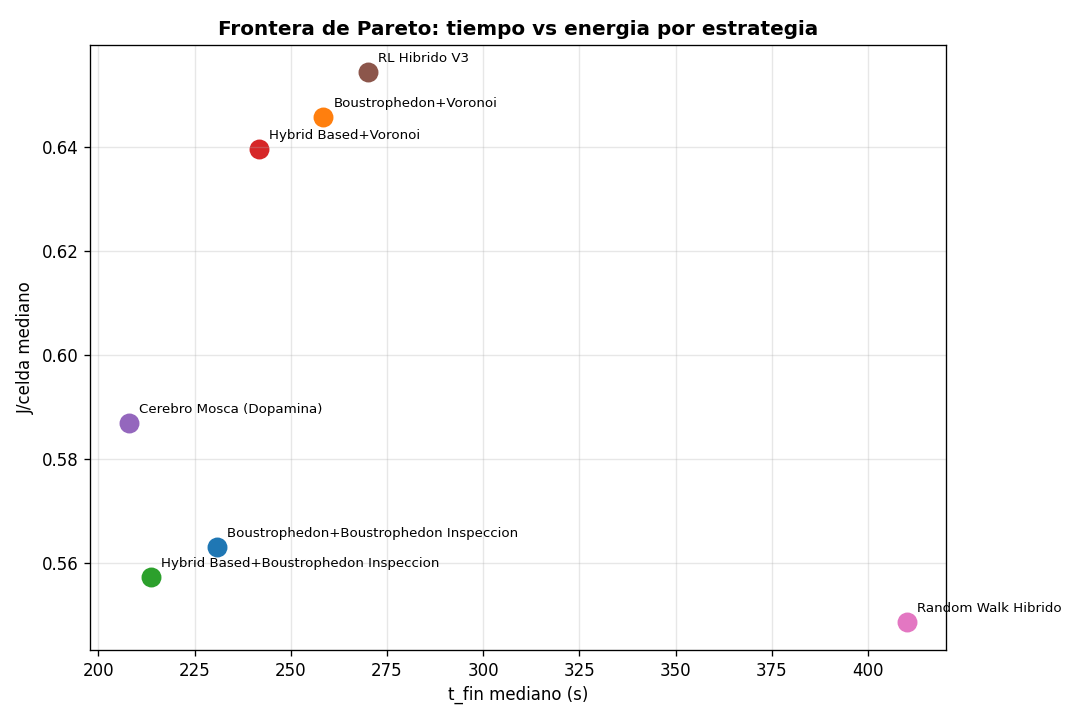
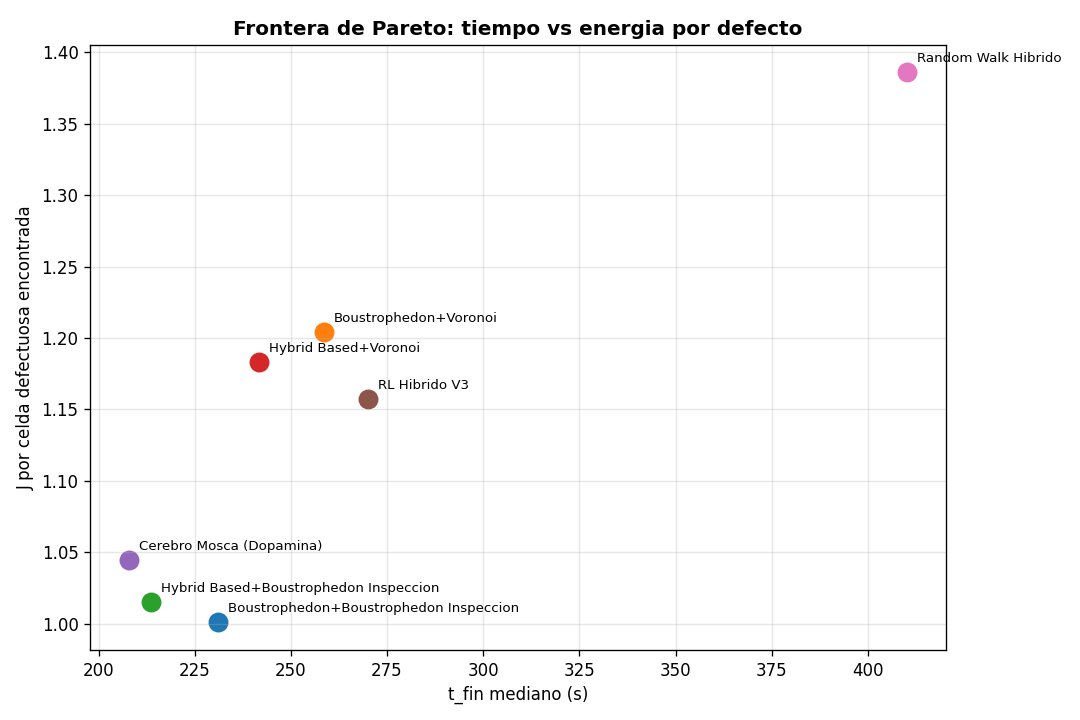
feat: pareto en J por celda defectuosa encontrada

diff --git a/graficar_generalista.py b/graficar_generalista.py
@@ -322,7 +322,8 @@ def main():
         L = libres_de_mapa(key[3])
         return {"t": t, "e": e, "pinsp": ins / L * 100.0,
                 "e_celda": e / L, "n": len(rows), "defec": df,
-                "tasa_def": df / t if t > 0 else 0.0}
+                "tasa_def": df / t if t > 0 else 0.0,
+                "e_por_def": e / df if df > 0 else float("nan")}
 
     # ---- 3. Ley de escala: t_fin vs N^2/R (log-log + pendiente) ----
     fig = plt.figure(figsize=(10, 5.5))
@@ -416,19 +417,19 @@ def main():
     fig.savefig(os.path.join(OUT, "ranking_global.png"), dpi=120)
     plt.close(fig)
 
-    # ---- 6. Frontera de Pareto tiempo vs energia ----
+    # ---- 6. Frontera de Pareto: tiempo vs J por celda defectuosa ----
     fig = plt.figure(figsize=(9, 6))
     for c in configs:
         tm = float(np.median([finales_grupo(k)["t"] for k in res
                               if k[:3] == c and finales_grupo(k)]))
-        em = float(np.median([finales_grupo(k)["e_celda"] for k in res
-                              if k[:3] == c and finales_grupo(k)]))
+        em = float(np.nanmedian([finales_grupo(k)["e_por_def"] for k in res
+                                 if k[:3] == c and finales_grupo(k)]))
         plt.scatter([tm], [em], s=120, color=colores[c], label=labs[c])
         plt.annotate(labs[c], (tm, em), fontsize=8,
                      xytext=(6, 6), textcoords="offset points")
     plt.xlabel("t_fin mediano (s)")
-    plt.ylabel("J/celda mediano")
-    plt.title("Frontera de Pareto: tiempo vs energia por estrategia",
+    plt.ylabel("J por celda defectuosa encontrada")
+    plt.title("Frontera de Pareto: tiempo vs energia por defecto",
               fontweight="bold")
     plt.grid(True, alpha=0.3)
     fig.tight_layout()
